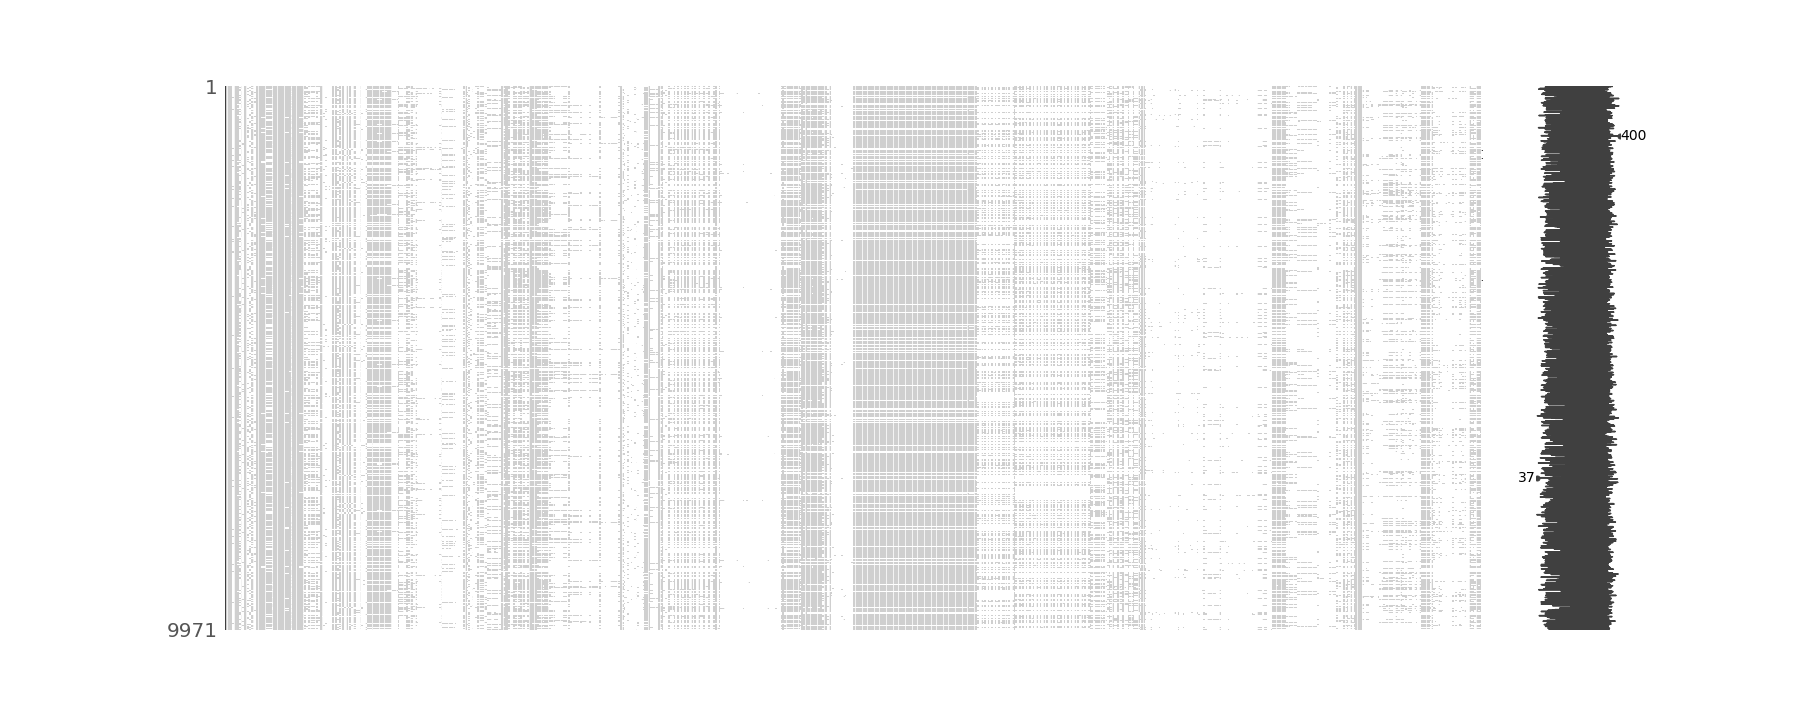
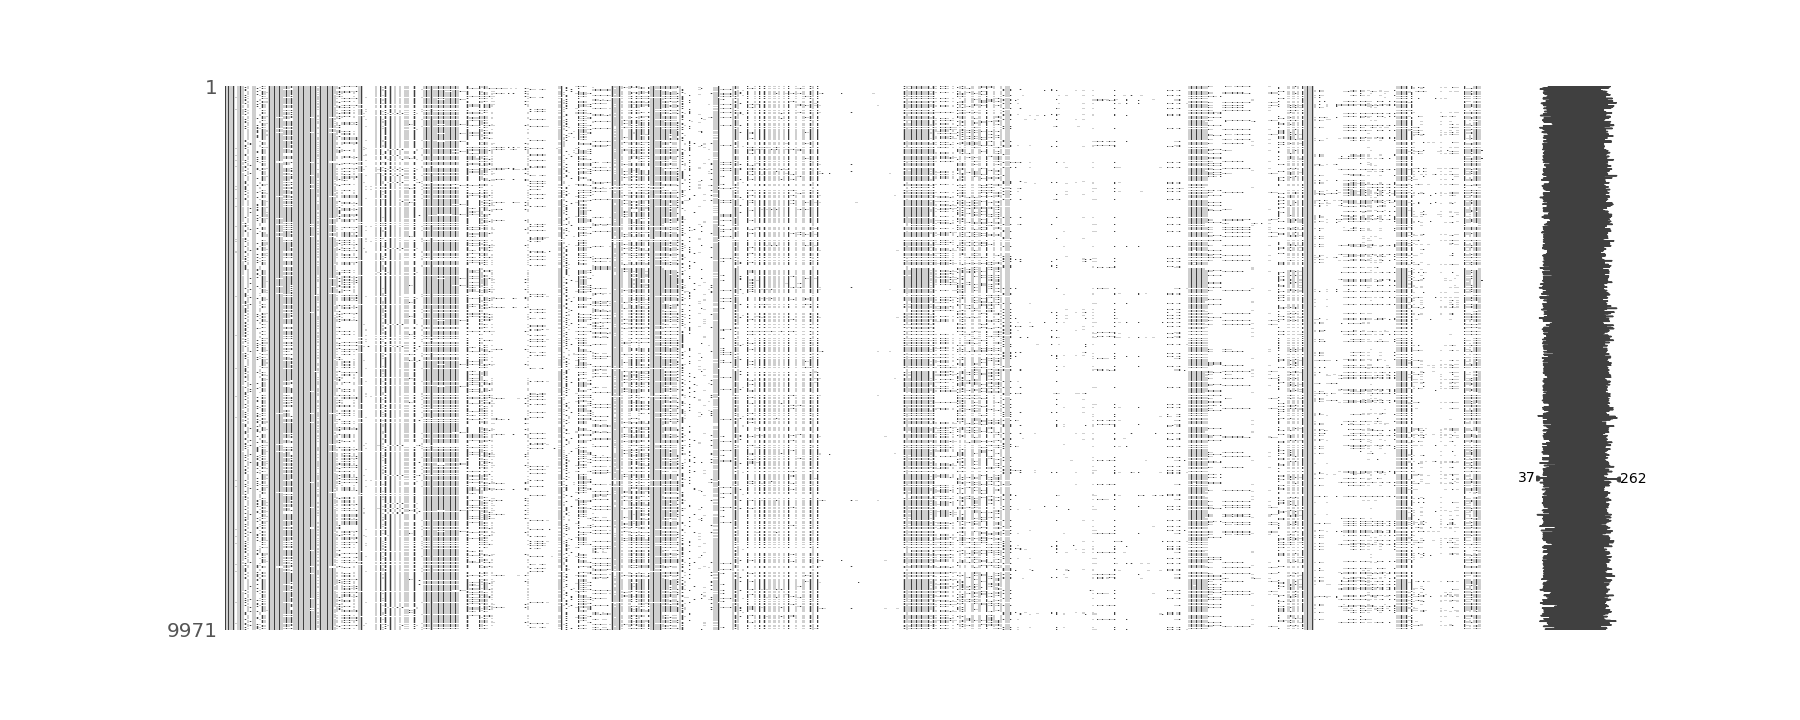
Update README with extra survey variables, update data cleaning file

Changed region(s): [[0.1244, 0.1222, 0.8711, 0.8861], [0.8711, 0.6417, 0.9022, 0.6722], [0.8711, 0.1833, 0.9022, 0.2139]]

diff --git a/src/clean.py b/src/clean.py
@@ -18,6 +18,9 @@ for key in key_list:
     response = s3.get_object(Bucket='health-survey-tables', Key=key)
     table = pd.concat([table, pd.read_csv(io.BytesIO(response['Body'].read())).set_index('SEQN')],
                       axis=1,verify_integrity=True)
+
+# msno.matrix(table)
+# plt.savefig('img/missing_before.png')
     
 adults = table[(table['RIDAGEYR']>=18) & (table['RIDSTATR']==2)]
 weight_2yrint = adults['WTINT2YR']
@@ -33,7 +36,7 @@ angina = adults[(adults['CDQ001'] == 1) & (adults['CDQ002'] == 1) & (adults['CDQ
 heart_history = adults[(adults['MCQ160C'] == 1) | (adults['MCQ160D'] == 1) | (adults['MCQ160E'] == 1)
                         | (adults['MCQ160F'] == 1)]
 
-cardio_risk = pd.Series(np.zeros(adults.shape[0]), index=adults.index)
+cardio_risk = pd.Series(np.zeros(adults.shape[0]), index=adults.index, name='cardio_risk')
 for num in angina.index:
     cardio_risk[num] = 1
 for num in heart_history.index:
@@ -43,7 +46,8 @@ for num in heart_history.index:
 adults.drop(adults.loc[:,'CDQ001':'CDQ010'], axis=1, inplace=True)
 adults.drop(adults.loc[:,'MCQ160B':'MCQ180F'], axis=1, inplace=True)
 
-adults['DMDEDUC2'][((adults['RIDAGEYR']==18) | (adults['RIDAGEYR']==19)) & (adults['DMDEDUC3']==15)] = 0
+adults['DMDEDUC2'][((adults['RIDAGEYR']==18) | (adults['RIDAGEYR']==19)) & (adults['DMDEDUC3']==15)] = 1
+adults['DMDEDUC2'][((adults['RIDAGEYR']==18) | (adults['RIDAGEYR']==19)) & (adults['DMDEDUC3']!=15)] = 0
 sys = adults[['BPXSY1', 'BPXSY2', 'BPXSY3', 'BPXSY4']]
 dia = adults[['BPXDI1', 'BPXDI2', 'BPXDI3', 'BPXDI4']]
 adults['AVGSYS'] = np.nanmean(sys, axis=1)
@@ -146,7 +150,7 @@ adults['DSDCOUNT'][(adults['DSDCOUNT'] == 99) | (adults['DSDCOUNT'] == 77)] = ro
 adults['DSD010AN'][adults['DSD010AN'] > 1] = 0
 adults['WHQ225'][adults['WHQ225'] >= 5] = 0
 adults['WHQ225'][adults['WHQ225'] < 5] = 1
-adults['DMDYRSUS'][adults['DMDYRSUS'] >= 4] = 1
+adults['DMDYRSUS'][(adults['DMDYRSUS'] >= 4) | (pd.isna(adults['DMDYRSUS']))] = 1
 adults['DMDYRSUS'][adults['DMDYRSUS'] < 4] = 0
 adults['DMDMARTL'][(adults['DMDMARTL'] <= 4) | (adults['DMDMARTL'] == 77)] = 1
 adults['DMDMARTL'][(adults['DMDMARTL'] > 4) | (pd.isna(adults['DMDMARTL']))] = 0
@@ -184,6 +188,12 @@ diet_health = pd.get_dummies(adults['DBQ700'], prefix='diet_health')
 milk = pd.get_dummies(adults['DBQ197'], prefix='milk')
 data = pd.concat([adults, race, diet_health, milk], axis=1)
 data.drop(['RIDRETH3', 'DBQ700', 'DBQ197'], axis=1, inplace=True)
+
+# msno.matrix(data)
+# plt.savefig('img/missing_after.png')
+
+# msno.dendrogram(adults)
+# plt.savefig('img/dendrogram.png')
 
 '''
 initial drop--

diff --git a/README.md b/README.md
@@ -16,7 +16,7 @@ NHANES (National Health and Nutrition Examination Survey) is a naitonal survey c
 The data used in building this model comes from the 2015-2016 survey and can be found at:  
 https://wwwn.cdc.gov/nchs/nhanes/continuousnhanes/default.aspx?BeginYear=2015.
 
-The data has been limited to the adult population who participated in both the questionnaire and examination portions of the survey, resulting in 5,735 individuals.  Of the many variables available for analysis, the list was narrowed to 46 variables to use as features in this model.  The elimination process was based first on intuitive relevance to heart disease (e.g. excluding dental health) and second on quality of data (e.g. data with 5,000 missing values).
+The data has been limited to the adult population who participated in both the questionnaire and examination portions of the survey, resulting in 5,735 individuals.  Of the many variables available for analysis, the list was narrowed to produce 63 features for use in this model.  The elimination process was based first on intuitive relevance to heart disease (e.g. excluding dental health) and second on quality of data (e.g. data with 5,000 missing values).
 
 Individuals in the dataset have been labeled as high-risk for cardiovascular disease based on either:
 
